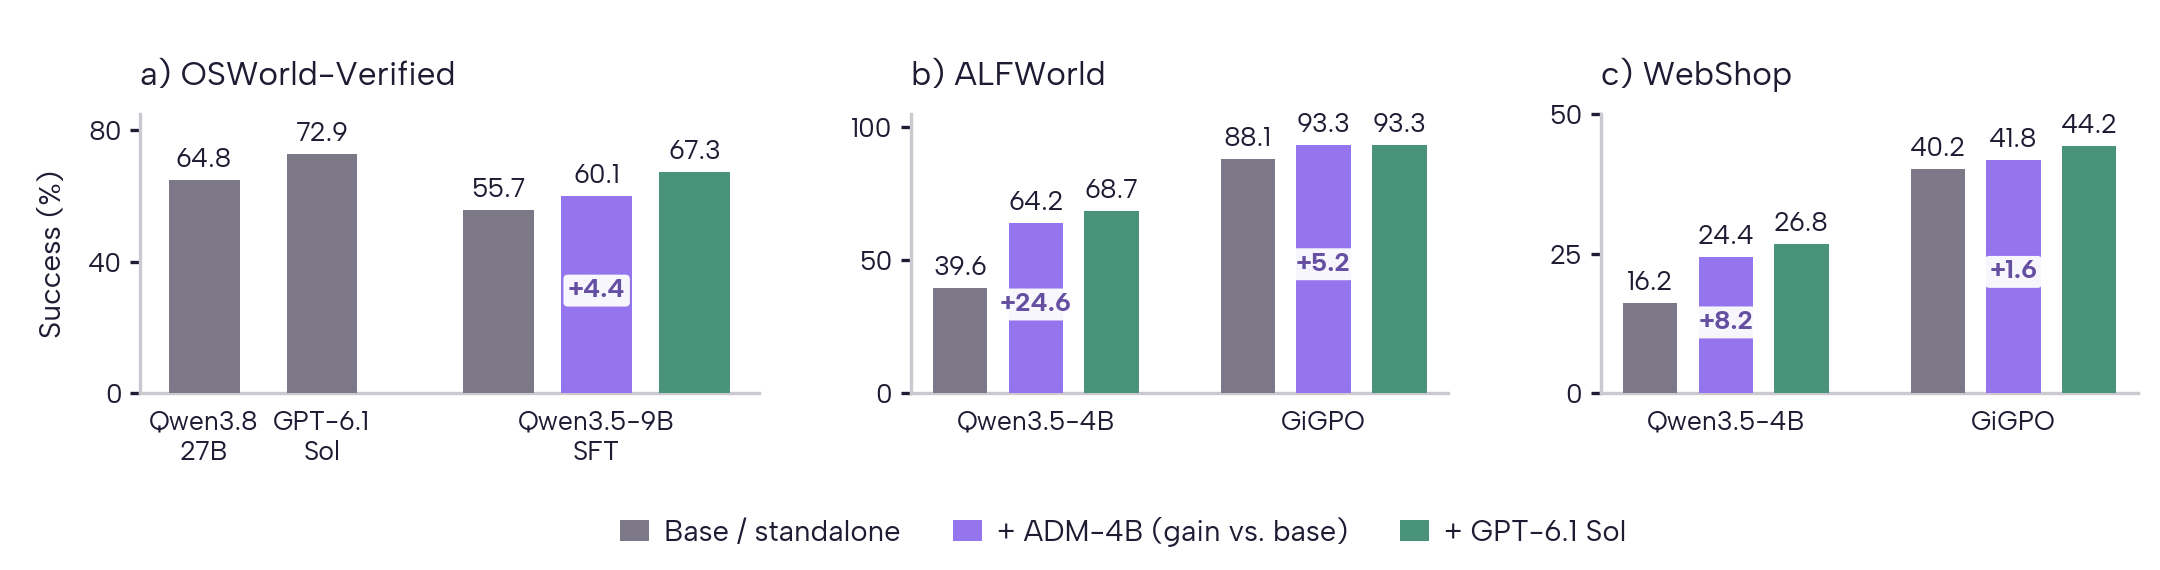
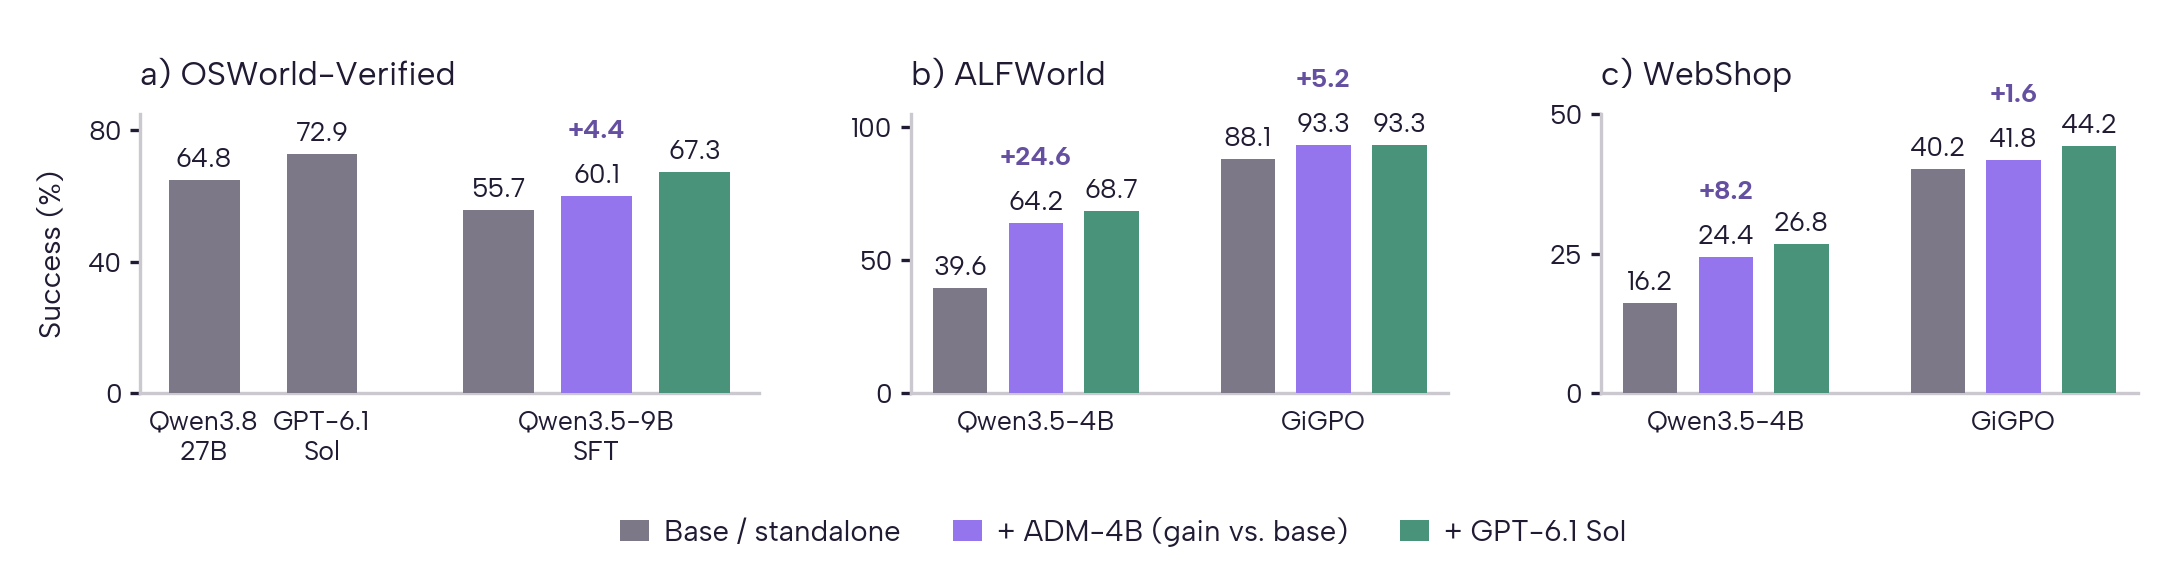
Move ADM gain annotations above transfer bars

diff --git a/openwebrl/docs/arm_results/generalization_20261116/plot_adm_transfer_success_vertical.py b/openwebrl/docs/arm_results/generalization_20261116/plot_adm_transfer_success_vertical.py
@@ -3,7 +3,7 @@
 
 Same input values and role colors as the horizontal figure. Group labels and
 one shared legend replace repeated system labels. Absolute rates above bars;
-ADM gains appear inside the purple bars relative to their corresponding base.
+ADM gains appear above the absolute rates relative to their corresponding base.
 """
 from pathlib import Path
 import json
@@ -40,10 +40,10 @@ for i,(ax,(bench,rows)) in enumerate(zip(axes,D['benchmarks'].items())):
         if row['role']=='adm':
             base=next(r for r in rows if r['role']=='base' and r['family']==row['family'])
             assert abs(row['success']-base['success']-row['gain'])<1e-8
-            ax.text(x,row['success']*.52,f"+{row['gain']:.1f}",
-                    ha='center',va='center',fontsize=6.3,fontweight='bold',
-                    color=C['ACTION_INK'],zorder=4,
-                    bbox=dict(boxstyle='round,pad=.17',fc='white',ec='none',alpha=.94))
+            ax.annotate(f"+{row['gain']:.1f}",(x,row['success']+ymax*.025),
+                        xytext=(0,11),textcoords='offset points',
+                        ha='center',va='bottom',fontsize=6.3,fontweight='bold',
+                        color=C['ACTION_INK'],zorder=4,annotation_clip=False)
     ax.set_title(f'{chr(97+i)}) {bench}',fontsize=8,loc='left',pad=7,color=C['INK'])
     ax.set_ylim(0,ymax);ax.set_yticks(yticks)
     ax.set_xticks(ticks,labels,fontsize=6.4)

diff --git a/openwebrl/docs/ARM_FINAL_RESULTS.md b/openwebrl/docs/ARM_FINAL_RESULTS.md
@@ -22,7 +22,7 @@ Figure labels use **Mean success (%)** for benchmark aggregates and **Success (%
 
 ![Compact vertical bars for OSWorld-Verified, ALFWorld and WebShop, using identical reported success rates](arm_results/generalization_20261116/adm_transfer_success_vertical.png)
 
-*Same input values and role colors as the horizontal figure, arranged in a 7.2 × 1.9-inch full-width layout with a single shared legend. Group labels replace repeated system names, and absolute success rates are printed above the bars. White badges inside the purple ADM bars show absolute gains over the corresponding base in percentage points. Each benchmark has a separate zero-based y range; there are no confidence intervals because uncertainty was not supplied.* [PDF](arm_results/generalization_20261116/adm_transfer_success_vertical.pdf) · [SVG](arm_results/generalization_20261116/adm_transfer_success_vertical.svg) · [Renderer](arm_results/generalization_20261116/plot_adm_transfer_success_vertical.py).
+*Same input values and role colors as the horizontal figure, arranged in a 7.2 × 1.9-inch full-width layout with a single shared legend. Group labels replace repeated system names, and absolute success rates are printed above the bars. Bold purple annotations above the ADM bars show absolute gains over the corresponding base in percentage points; absolute success rates appear immediately below the gains. Each benchmark has a separate zero-based y range; there are no confidence intervals because uncertainty was not supplied.* [PDF](arm_results/generalization_20261116/adm_transfer_success_vertical.pdf) · [SVG](arm_results/generalization_20261116/adm_transfer_success_vertical.svg) · [Renderer](arm_results/generalization_20261116/plot_adm_transfer_success_vertical.py).
 
 <details><summary>Supplied numerical results</summary>
 
